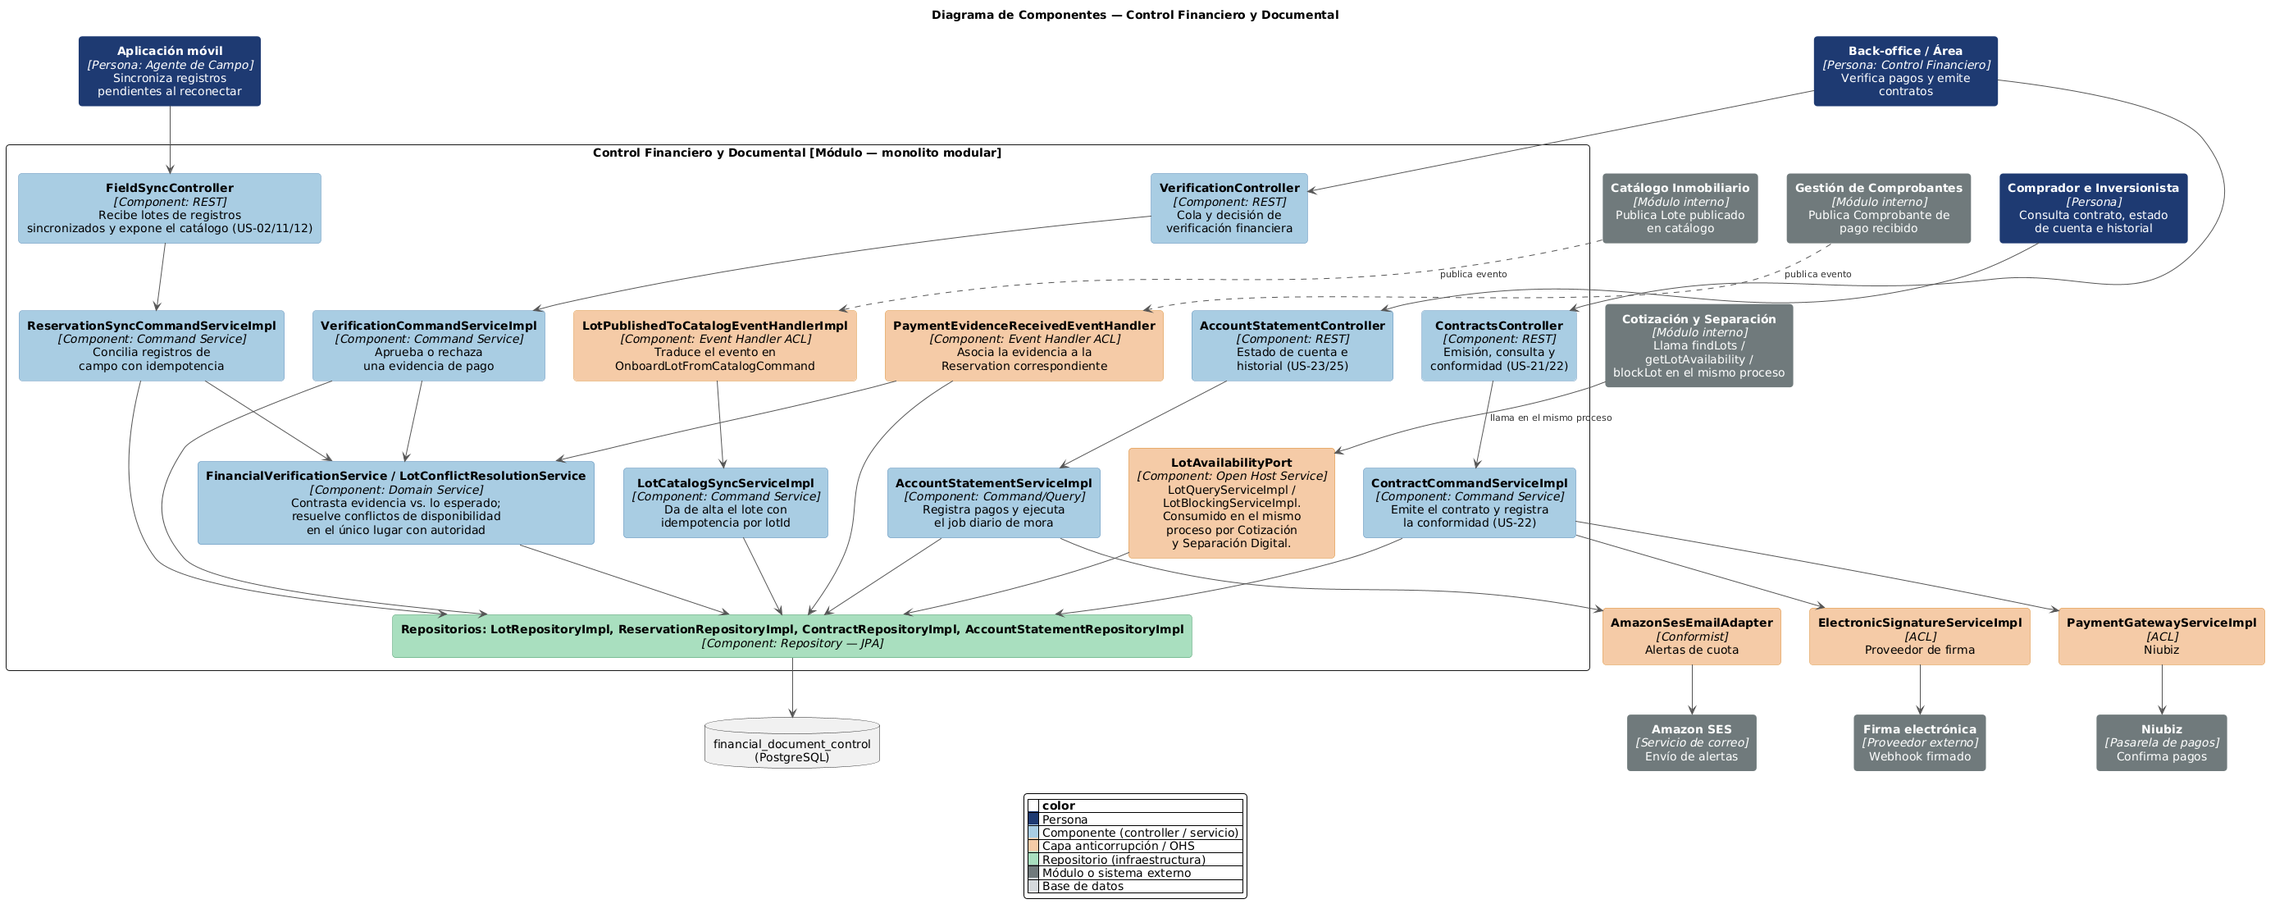
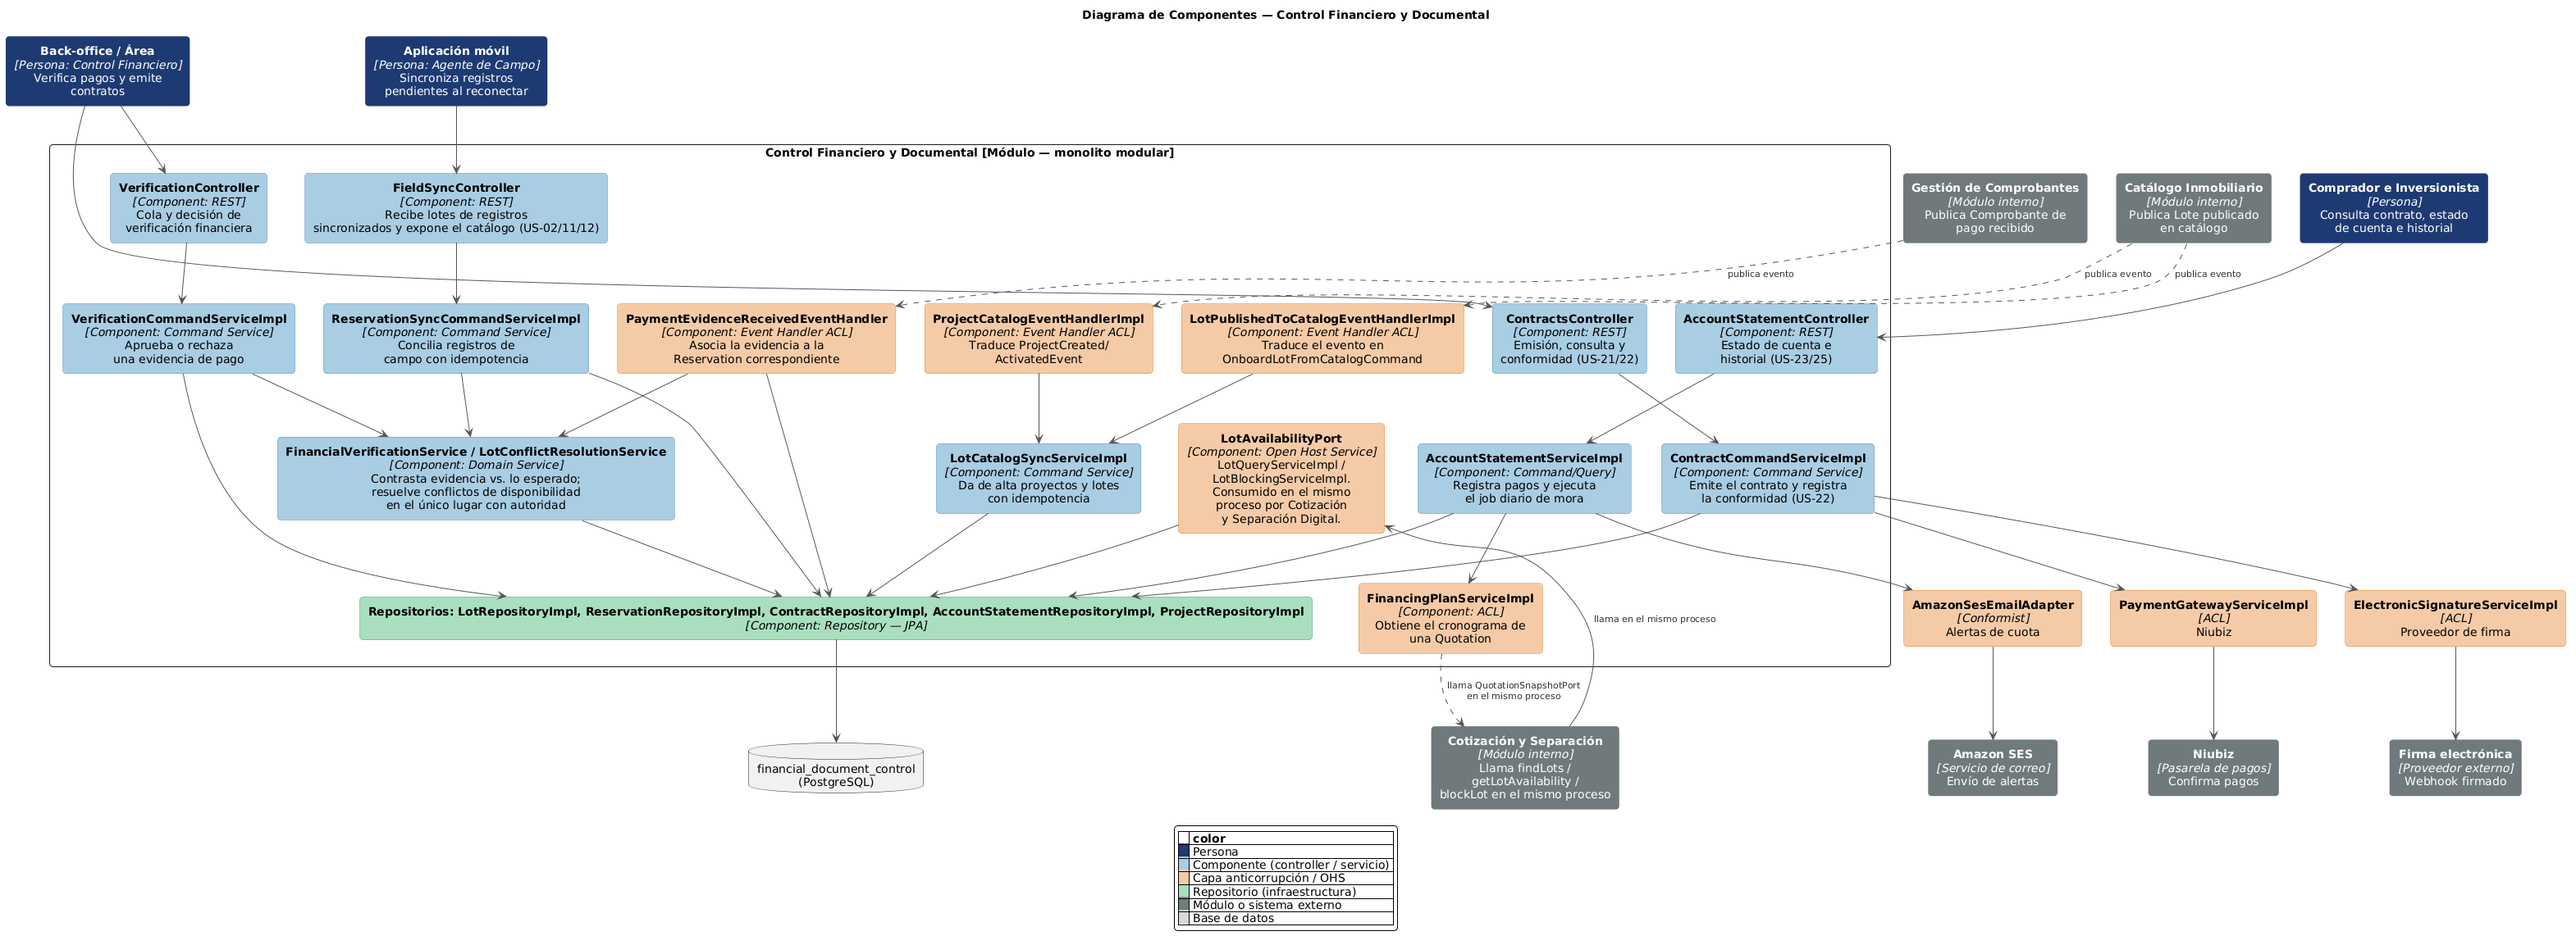
fix(chapter-02): complete catalog query port, document project activation, and sync DB diagram with polygon column

diff --git a/docs/Chapter-02.md b/docs/Chapter-02.md
@@ -2791,6 +2791,12 @@ Control Financiero y Documental es el contexto que sostiene la trazabilidad post
       <td>id, projectId, code, area, price, polygon, status, currentReservationId, blockedUntil. <code>onboard(projectId, code, area, price, polygon)</code> [factoría estática, a partir del evento de Catálogo Inmobiliario], <code>block(reservationId, holderId, channel, validityMinutes)</code>, releaseExpiredBlock(), moveToPendingVerification(), markReserved(), markSold(), isAvailable().</td>
     </tr>
     <tr>
+      <td><b>Project</b></td>
+      <td>Aggregate Root</td>
+      <td>Proyección de solo lectura del proyecto inmobiliario, mantenida a partir de los eventos de Catálogo Inmobiliario; este contexto no tiene autoridad sobre su alta ni su activación, solo refleja su estado para que el catálogo pueda listarlo y filtrarlo.</td>
+      <td>id, name, location, status. <code>onboard(id, name, location)</code> [factoría estática, a partir de ProjectCreatedEvent], <code>activate()</code> [a partir de ProjectActivatedEvent].</td>
+    </tr>
+    <tr>
       <td><b>Reservation</b></td>
       <td>Aggregate Root</td>
       <td>Separación consolidada de un lote, originada en campo (offline) o desde la web, con el historial de evidencias de pago y su verificación.</td>
@@ -2851,16 +2857,16 @@ Control Financiero y Documental es el contexto que sostiene la trazabilidad post
       <td>resolve(lot, incomingReservation).</td>
     </tr>
     <tr>
-      <td><b>LotRepository,<br>ReservationRepository,<br>ContractRepository,<br>AccountStatementRepository</b></td>
+      <td><b>LotRepository,<br>ReservationRepository,<br>ContractRepository,<br>AccountStatementRepository,<br>ProjectRepository</b></td>
       <td>Repository (interfaz)</td>
       <td>Persistencia de cada agregado y verificación de idempotencia por sourceEventId.</td>
-      <td>findById, findAvailableByFilters, existsBySourceEventId, findByBuyerId, save.</td>
+      <td>findById, findAvailableByFilters, existsBySourceEventId, findByBuyerId, findAll, save.</td>
     </tr>
     <tr>
-      <td><b>OnboardLotFromCatalogCommand,<br>BlockLotCommand,<br>SyncFieldRecordsCommand,<br>VerifyPaymentCommand,<br>RejectPaymentCommand,<br>IssueContractCommand,<br>RegisterBuyerAcknowledgmentCommand,<br>RegisterInstallmentPaymentCommand,<br>MarkOverdueInstallmentsCommand</b></td>
+      <td><b>OnboardProjectFromCatalogCommand,<br>ActivateProjectCommand,<br>OnboardLotFromCatalogCommand,<br>BlockLotCommand,<br>SyncFieldRecordsCommand,<br>VerifyPaymentCommand,<br>RejectPaymentCommand,<br>IssueContractCommand,<br>RegisterBuyerAcknowledgmentCommand,<br>RegisterInstallmentPaymentCommand,<br>MarkOverdueInstallmentsCommand</b></td>
       <td>Command</td>
-      <td>Intenciones de cambio sobre el inventario (su alta y su disponibilidad), la sincronización de campo, la verificación financiera, la emisión contractual y el seguimiento de pagos.</td>
-      <td>Los datos necesarios por comando: projectId, code, area, price y polygon; lotId y vigencia; arreglo de prospectos pendientes y arreglo de reservas pendientes (lote único); evidenceId y decisión; documentUrl y anexos; timestamp; installmentNumber y monto; fecha de corte.</td>
+      <td>Intenciones de cambio sobre la proyección de proyectos, sobre el inventario (su alta y su disponibilidad), la sincronización de campo, la verificación financiera, la emisión contractual y el seguimiento de pagos.</td>
+      <td>Los datos necesarios por comando: id, name, location; projectId; projectId, code, area, price y polygon; lotId y vigencia; arreglo de prospectos pendientes y arreglo de reservas pendientes (lote único); evidenceId y decisión; documentUrl y anexos; timestamp; installmentNumber y monto; fecha de corte.</td>
     </tr>
     <tr>
       <td><b>FindLotsQuery,<br>GetLotAvailabilityQuery,<br>GetPendingVerificationsQuery,<br>GetContractQuery,<br>GetAccountStatementQuery,<br>GetPaymentHistoryQuery</b></td>
@@ -2928,7 +2934,7 @@ Para separaciones `WEB`, `quotationId` viaja desde `SeparationRequest` hasta `Re
     <tr>
       <td><b>LotAvailabilityPort</b></td>
       <td>Open Host Service invocado en el mismo proceso por Cotización y Separación Digital para consultar el catálogo y solicitar el bloqueo de un lote; es la única puerta de entrada a la autoridad de disponibilidad.</td>
-      <td>findLots(projectId, filters), getLotAvailability(lotId), blockLot(lotId, buyerId, quotationId, validityMinutes).</td>
+      <td>findProjects(), findLots(projectId, filters), getLotAvailability(lotId), blockLot(lotId, buyerId, quotationId, validityMinutes).</td>
     </tr>
     <tr>
       <td><b>LotResource, ReservationResource, ContractResource, AccountStatementResource</b> y sus assemblers</td>
@@ -2975,7 +2981,7 @@ El endpoint `GET /api/v1/field-sync/catalog` es distinto de `GET /api/v1/project
     <tr>
       <td><b>LotQueryServiceImpl,<br>LotBlockingServiceImpl,<br>LotCatalogSyncServiceImpl</b></td>
       <td>Query/Command Service</td>
-      <td>Los dos primeros implementan LotAvailabilityPort: resuelven FindLotsQuery y GetLotAvailabilityQuery, y ejecutan BlockLotCommand invocando Lot.block en el mismo proceso que invoca Cotización y Separación Digital. LotCatalogSyncServiceImpl maneja OnboardLotFromCatalogCommand: antes de invocar Lot.onboard, verifica con LotRepository.findById que el lote no exista todavía, para tolerar que el evento se reciba más de una vez sin duplicar el inventario.</td>
+      <td>Los dos primeros implementan LotAvailabilityPort: resuelven FindProjectsQuery (leyendo la proyección de Project), FindLotsQuery y GetLotAvailabilityQuery, y ejecutan BlockLotCommand invocando Lot.block en el mismo proceso que invoca Cotización y Separación Digital. LotCatalogSyncServiceImpl maneja OnboardProjectFromCatalogCommand, ActivateProjectCommand y OnboardLotFromCatalogCommand: antes de invocar Project.onboard o Lot.onboard, verifica con el repositorio correspondiente que el registro no exista todavía, para tolerar que el evento se reciba más de una vez sin duplicar el inventario.</td>
     </tr>
   </tbody>
 </table>
@@ -2993,7 +2999,7 @@ El endpoint `GET /api/v1/field-sync/catalog` es distinto de `GET /api/v1/project
   </thead>
   <tbody>
     <tr>
-      <td><b>LotRepositoryImpl,<br>ReservationRepositoryImpl,<br>ContractRepositoryImpl,<br>AccountStatementRepositoryImpl</b></td>
+      <td><b>LotRepositoryImpl,<br>ReservationRepositoryImpl,<br>ContractRepositoryImpl,<br>AccountStatementRepositoryImpl,<br>ProjectRepositoryImpl</b></td>
       <td>Repository (JPA)</td>
       <td>Persistencia sobre el esquema `financial_document_control`.</td>
     </tr>
@@ -3011,6 +3017,11 @@ El endpoint `GET /api/v1/field-sync/catalog` es distinto de `GET /api/v1/project
       <td><b>LotPublishedToCatalogEventHandlerImpl</b></td>
       <td>Anti-corruption Layer (Event Handler)</td>
       <td>Escucha, en el mismo proceso, el evento LotPublishedToCatalogEvent publicado por Catálogo Inmobiliario, y lo traduce en un OnboardLotFromCatalogCommand que LotCatalogSyncServiceImpl ejecuta.</td>
+    </tr>
+    <tr>
+      <td><b>ProjectCatalogEventHandlerImpl</b></td>
+      <td>Anti-corruption Layer (Event Handler)</td>
+      <td>Escucha, en el mismo proceso, ProjectCreatedEvent y ProjectActivatedEvent publicados por Catálogo Inmobiliario, y los traduce en OnboardProjectFromCatalogCommand o ActivateProjectCommand que LotCatalogSyncServiceImpl ejecuta.</td>
     </tr>
     <tr>
       <td><b>FinancingPlanServiceImpl</b></td>
@@ -3039,7 +3050,7 @@ El endpoint `GET /api/v1/field-sync/catalog` es distinto de `GET /api/v1/project
 
 ![Diagrama de componentes de Control Financiero y Documental](../assets/cap2/C4-Components-Control-Financiero-y-Documental.png)
 
-El módulo recibe cuatro flujos de entrada: el alta de inventario publicada por Catálogo Inmobiliario, la sincronización de campo desde la aplicación móvil, las decisiones del back-office sobre verificación y emisión, y las consultas de autoservicio del Comprador e Inversionista. `LotPublishedToCatalogEventHandlerImpl` consume, como capa anticorrupción, el evento que publica Catálogo Inmobiliario, dando de alta el lote antes de que cualquier otro flujo pueda bloquearlo o venderlo. `PaymentEvidenceReceivedEventHandler` consume, también como capa anticorrupción, el evento que publica Gestión de Comprobantes, mientras que `LotAvailabilityPort` expone en el mismo proceso el Open Host Service que consume Cotización y Separación Digital para leer disponibilidad y bloquear un lote, evitando así cualquier duplicidad en la autoridad sobre el inventario. La dependencia también ocurre en sentido inverso para la emisión de contratos web: `FinancingPlanServiceImpl` consume en el mismo proceso el `QuotationSnapshotPort` de Cotización y Separación Digital para recuperar el cronograma simulado al generar el estado de cuenta. Los cuatro Command/Query Services dependen de los Domain Services (`FinancialVerificationService`, `LotConflictResolutionService`) y persisten a través de los repositorios JPA sobre el esquema `financial_document_control`. Hacia afuera, tres adaptadores traducen la integración con la pasarela de pagos (Niubiz), el proveedor de firma electrónica y el servicio de correo (Amazon SES).
+El módulo recibe cuatro flujos de entrada: el alta de inventario publicada por Catálogo Inmobiliario, la sincronización de campo desde la aplicación móvil, las decisiones del back-office sobre verificación y emisión, y las consultas de autoservicio del Comprador e Inversionista. `LotPublishedToCatalogEventHandlerImpl` consume, como capa anticorrupción, el evento que publica Catálogo Inmobiliario, dando de alta el lote antes de que cualquier otro flujo pueda bloquearlo o venderlo; `ProjectCatalogEventHandlerImpl` hace lo propio con la proyección de proyectos, para que `findProjects()` tenga de dónde leer. `PaymentEvidenceReceivedEventHandler` consume, también como capa anticorrupción, el evento que publica Gestión de Comprobantes, mientras que `LotAvailabilityPort` expone en el mismo proceso el Open Host Service que consume Cotización y Separación Digital para leer disponibilidad y bloquear un lote, evitando así cualquier duplicidad en la autoridad sobre el inventario. La dependencia también ocurre en sentido inverso para la emisión de contratos web: `FinancingPlanServiceImpl` consume en el mismo proceso el `QuotationSnapshotPort` de Cotización y Separación Digital para recuperar el cronograma simulado al generar el estado de cuenta. Los cuatro Command/Query Services dependen de los Domain Services (`FinancialVerificationService`, `LotConflictResolutionService`) y persisten a través de los repositorios JPA sobre el esquema `financial_document_control`. Hacia afuera, tres adaptadores traducen la integración con la pasarela de pagos (Niubiz), el proveedor de firma electrónica y el servicio de correo (Amazon SES).
 
 #### 2.6.4.6. Bounded Context Software Architecture Code Level Diagrams
 
@@ -3053,7 +3064,7 @@ El diagrama ubica a Lot como el agregado del cual dependen, por identificador, l
 
 ![Diagrama de base de datos de Control Financiero y Documental](../assets/cap2/DB-Control-Financiero-y-Documental.png)
 
-El esquema `financial_document_control` tiene seis tablas. `lots` guarda el inventario canónico con su estado, la ficha técnica heredada de Catálogo Inmobiliario (`area`, `price`, `polygon`) y el `current_reservation_id` que apunta al bloqueo vigente; `reservations` referencia a `lots` y guarda el canal de origen, el `requester_id` y el `source_event_id` como clave única para garantizar la idempotencia de la sincronización desde campo. `payment_evidences` referencia a `reservations` y conserva el resultado de la revisión administrativa. `contracts` tiene clave foránea única hacia `reservations` (relación uno a uno), y `account_statements` tiene, a su vez, clave foránea única hacia `contracts`. `installments` guarda una fila por cuota real, con clave foránea a `account_statements`.
+El esquema `financial_document_control` tiene siete tablas. `projects` guarda la proyección de solo lectura mantenida a partir de los eventos de Catálogo Inmobiliario. `lots` referencia a `projects` mediante `project_id` y guarda el inventario canónico con su estado, la ficha técnica heredada de Catálogo Inmobiliario (`area`, `price`, `polygon`) y el `current_reservation_id` que apunta al bloqueo vigente; `reservations` referencia a `lots` y guarda el canal de origen, el `requester_id`, el `prospect_id` o `quotation_id` según corresponda, y el `source_event_id` como clave única para garantizar la idempotencia de la sincronización desde campo. `payment_evidences` referencia a `reservations` y conserva el resultado de la revisión administrativa. `contracts` tiene clave foránea única hacia `reservations` (relación uno a uno), y `account_statements` tiene, a su vez, clave foránea única hacia `contracts`. `installments` guarda una fila por cuota real, con clave foránea a `account_statements`.
 
 ### 2.6.5. Bounded Context: Catálogo Inmobiliario
 
@@ -3080,7 +3091,7 @@ A diferencia de los demás contextos, Catálogo Inmobiliario no es offline-first
       <td><b>Project</b></td>
       <td>Aggregate Root</td>
       <td>Proyecto inmobiliario bajo el cual se registran lotes.</td>
-      <td>id, name, location, stages, status, createdAt. <code>create(name, location, stages)</code> [factoría estática].</td>
+      <td>id, name, location, stages, status, createdAt. <code>create(name, location, stages)</code> [factoría estática], <code>activate()</code>.</td>
     </tr>
     <tr>
       <td><b>Lot</b></td>
@@ -3137,15 +3148,15 @@ A diferencia de los demás contextos, Catálogo Inmobiliario no es offline-first
       <td>name, location, stages; projectId, code, dimensions, price, polygon; lotId.</td>
     </tr>
     <tr>
-      <td><b>ProjectCreatedEvent,<br>LotCreatedEvent,<br>LotPublishedToCatalogEvent</b></td>
+      <td><b>ProjectCreatedEvent,<br>LotCreatedEvent,<br>LotPublishedToCatalogEvent,<br>ProjectActivatedEvent</b></td>
       <td>Domain Event</td>
-      <td>Hechos que el contexto registra. El tercero es el único consumido fuera del contexto, por Control Financiero y Documental.</td>
+      <td>Hechos que el contexto registra. El primero, el tercero y el cuarto son consumidos fuera del contexto, por Control Financiero y Documental, para mantener su propia proyección de proyectos; el segundo es interno.</td>
       <td>Identificadores del proyecto o lote y fecha del evento.</td>
     </tr>
   </tbody>
 </table>
 
-Las reglas de negocio quedan repartidas así: `Lot.create()` exige que el `projectId` corresponda a un proyecto existente, validación que la capa de aplicación resuelve con `ProjectRepository.findById` antes de invocar la factoría; `Lot.publish()` es el único punto de entrada para publicar y falla si `polygon`, `price` o `projectId` están incompletos, dejando el lote en `PUBLISHED` solo cuando su ficha técnica está completa. Ninguna regla de este contexto decide disponibilidad comercial: esa autoridad pertenece exclusivamente a Control Financiero y Documental una vez recibido el evento de publicación.
+Las reglas de negocio quedan repartidas así: `Lot.create()` exige que el `projectId` corresponda a un proyecto existente, validación que la capa de aplicación resuelve con `ProjectRepository.findById` antes de invocar la factoría; `Lot.publish()` es el único punto de entrada para publicar y falla si `polygon`, `price` o `projectId` están incompletos, dejando el lote en `PUBLISHED` solo cuando su ficha técnica está completa. Un proyecto nace en `DRAFT` y pasa a `ACTIVE` mediante `Project.activate()` la primera vez que se publica uno de sus lotes: `PublishLotCommandHandler` consulta si es el primer `Lot` en `PUBLISHED` del proyecto y, de ser así, invoca `activate()` antes de persistir; un proyecto sin lotes publicados nunca aparece como activo en el catálogo, consistente con US-15. Ninguna regla de este contexto decide disponibilidad comercial: esa autoridad pertenece exclusivamente a Control Financiero y Documental una vez recibido el evento de publicación.
 
 #### 2.6.5.2. Interface Layer
 
@@ -3197,7 +3208,7 @@ Las reglas de negocio quedan repartidas así: `Lot.create()` exige que el `proje
     <tr>
       <td><b>PublishLotCommandHandler</b></td>
       <td>Command Handler</td>
-      <td><code>handle(PublishLotCommand)</code>: obtiene el <code>Lot</code>, invoca <code>Lot.publish()</code>, lo persiste y publica <code>LotPublishedToCatalogEvent</code> hacia Control Financiero y Documental.</td>
+      <td><code>handle(PublishLotCommand)</code>: obtiene el <code>Lot</code>, invoca <code>Lot.publish()</code>, lo persiste y publica <code>LotPublishedToCatalogEvent</code> hacia Control Financiero y Documental. Si es el primer lote publicado del proyecto, invoca <code>Project.activate()</code>, lo persiste y publica <code>ProjectActivatedEvent</code> para que Control Financiero y Documental actualice su proyección del proyecto.</td>
     </tr>
   </tbody>
 </table>
